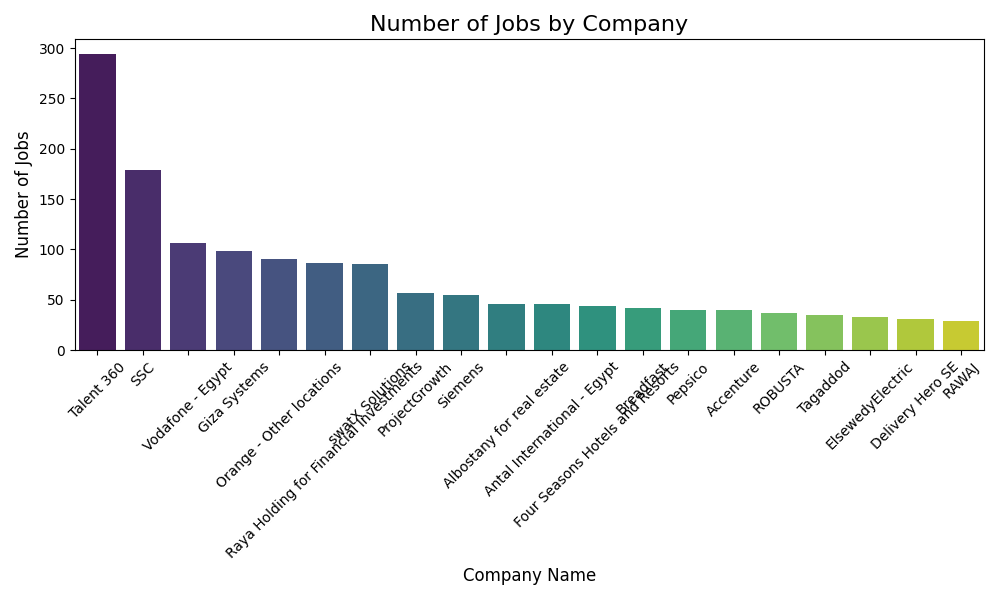
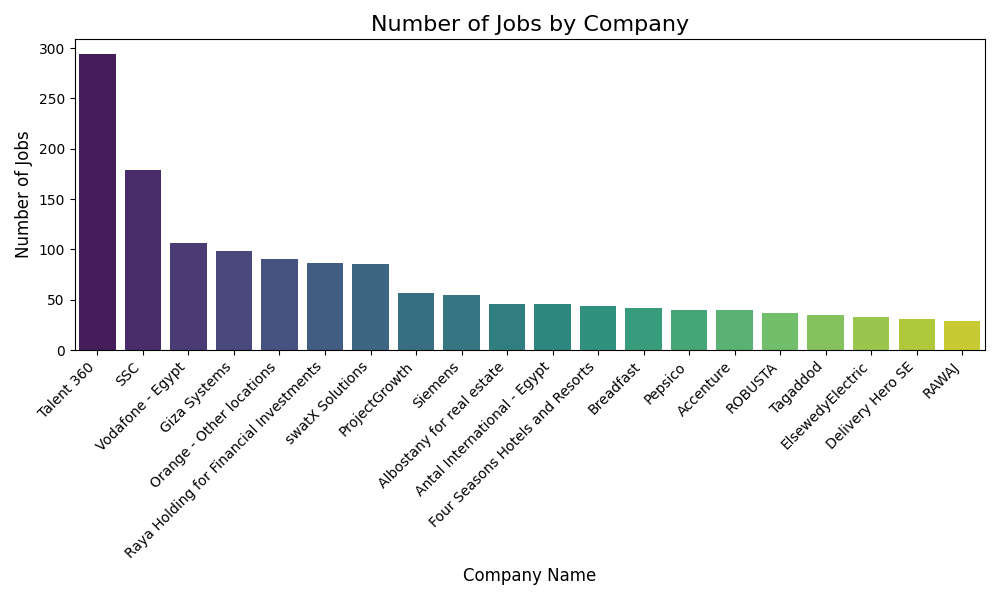
update methods

diff --git a/scripts/analysis.py b/scripts/analysis.py
@@ -9,7 +9,7 @@ from typing import Literal
 
 
 
-def job_distribution_by_city(df, plot_name, folder: Literal['egypt', 'saudi', 'compare'], top_n=10):
+def job_distribution_by_city(df, plot_name, folder: Literal['egypt', 'saudi', 'compare'], save = True, top_n=10):
     """
     Plot and save a bar chart showing the distribution of jobs by city.
 
@@ -25,8 +25,12 @@ def job_distribution_by_city(df, plot_name, folder: Literal['egypt', 'saudi', 'c
     plot_name : str
         Name of the output image file (without extension).
 
+
     folder : Literal['egypt', 'saudi', 'compare']
         Folder name where the plot will be saved.
+
+    save : bool
+        Whether to save the output image file (default True).
 
     top_n : int, optional, default=10
         Number of top cities to include in the plot.
@@ -60,14 +64,15 @@ def job_distribution_by_city(df, plot_name, folder: Literal['egypt', 'saudi', 'c
     plt.tight_layout()
     plt.show()
 
-    path = '../visualizations/' + folder + '/' + plot_name + '.png'
-    fig.savefig(path)
+    if save:
+        path = '../visualizations/' + folder + '/' + plot_name + '.png'
+        fig.savefig(path)
 
     return fig
 
 
 
-def analyze_jobs_by_company(data, plot_name, folder: Literal['egypt', 'saudi', 'compare'], top_n=20):
+def analyze_jobs_by_company(data, plot_name, folder: Literal['egypt', 'saudi', 'compare'], save = True, top_n=20):
     """
     Analyze and visualize the number of job postings per company.
 
@@ -84,6 +89,9 @@ def analyze_jobs_by_company(data, plot_name, folder: Literal['egypt', 'saudi', '
 
     folder : Literal['egypt', 'saudi', 'compare']
         Folder name where the plot will be saved.
+
+    save : bool
+        Whether to save the output image file (default True).
 
     top_n : int, optional, default=20
         Number of top companies to include in the plot.
@@ -118,19 +126,20 @@ def analyze_jobs_by_company(data, plot_name, folder: Literal['egypt', 'saudi', '
     ax.set_title('Number of Jobs by Company', fontsize=16)
     ax.set_xlabel('Company Name', fontsize=12)
     ax.set_ylabel('Number of Jobs', fontsize=12)
-    plt.xticks(rotation=45)
+    plt.xticks(rotation=45, ha='right')
     plt.tight_layout()
     # Show the plot
     plt.show()
 
-    path = '../visualizations/' + folder + '/' + plot_name + '.png'
-    fig.savefig(path)
+    if save:
+        path = '../visualizations/' + folder + '/' + plot_name + '.png'
+        fig.savefig(path)
 
     return fig
 
 
 
-def get_top_job_titles_with_plot(data, plot_name, folder: Literal['egypt', 'saudi', 'compare'], top_n=10):
+def get_top_job_titles_with_plot(data, plot_name, folder: Literal['egypt', 'saudi', 'compare'], save = True, top_n=10):
     """
     Generate and visualize the top most frequent job titles from the dataset.
 
@@ -147,6 +156,9 @@ def get_top_job_titles_with_plot(data, plot_name, folder: Literal['egypt', 'saud
 
     folder : Literal['egypt', 'saudi', 'compare']
         Folder name where the plot will be saved.
+
+    save : bool
+        Whether to save the output image file (default True).
 
     top_n : int, optional, default=10
         Number of top job titles to include in the analysis and plot.
@@ -182,14 +194,15 @@ def get_top_job_titles_with_plot(data, plot_name, folder: Literal['egypt', 'saud
     plt.tight_layout()
     plt.show()
 
-    path = '../visualizations/' + folder + '/' + plot_name + '.png'
-    fig.savefig(path)
+    if save:
+        path = '../visualizations/' + folder + '/' + plot_name + '.png'
+        fig.savefig(path)
 
     return fig
 
 
 
-def analyze_jobs_by_work_type(data, plot_name, folder: Literal['egypt', 'saudi', 'compare']):
+def analyze_jobs_by_work_type(data, plot_name, folder: Literal['egypt', 'saudi', 'compare'], save = True):
     """
     Analyze and visualize the distribution of jobs by work type (e.g., Remote, On-site).
 
@@ -207,6 +220,9 @@ def analyze_jobs_by_work_type(data, plot_name, folder: Literal['egypt', 'saudi',
 
     folder : Literal['egypt', 'saudi', 'compare']
         Folder name where the plot will be saved.
+
+    save : bool
+        Whether to save the output image file (default True).
 
     Returns:
     --------
@@ -246,15 +262,16 @@ def analyze_jobs_by_work_type(data, plot_name, folder: Literal['egypt', 'saudi',
     plt.tight_layout()
     plt.show()
 
-    path = '../visualizations/' + folder + '/' + plot_name + '.png'
-    fig.savefig(path)
+    if save:
+        path = '../visualizations/' + folder + '/' + plot_name + '.png'
+        fig.savefig(path)
 
     return fig
 
 
 
 
-def analyze_jobs_by_time(data, plot_name, folder: Literal['egypt', 'saudi', 'compare']):
+def analyze_jobs_by_time(data, plot_name, folder: Literal['egypt', 'saudi', 'compare'], save = True):
     """
     Analyze and visualize the distribution of job postings over time (by month).
 
@@ -272,6 +289,9 @@ def analyze_jobs_by_time(data, plot_name, folder: Literal['egypt', 'saudi', 'com
 
     folder : Literal['egypt', 'saudi', 'compare']
         Folder name where the plot will be saved.
+
+    save : bool
+        Whether to save the output image file (default True).
 
     Returns:
     --------
@@ -326,14 +346,15 @@ def analyze_jobs_by_time(data, plot_name, folder: Literal['egypt', 'saudi', 'com
     plt.tight_layout()
     plt.show()
 
-    path = '../visualizations/' + folder + '/' + plot_name + '.png'
-    fig.savefig(path)
+    if save:
+        path = '../visualizations/' + folder + '/' + plot_name + '.png'
+        fig.savefig(path)
 
     return fig
 
 
 
-def analyze_jobs_by_gender(data, plot_name, folder: Literal['egypt', 'saudi', 'compare']):
+def analyze_jobs_by_gender(data, plot_name, folder: Literal['egypt', 'saudi', 'compare'], save = True):
     """
     Analyze and visualize the distribution of job postings by gender preference.
 
@@ -351,6 +372,9 @@ def analyze_jobs_by_gender(data, plot_name, folder: Literal['egypt', 'saudi', 'c
 
     folder : Literal['egypt', 'saudi', 'compare']
         Folder name where the plot will be saved.
+
+    save : bool
+        Whether to save the output image file (default True).
 
     Returns:
     --------
@@ -389,14 +413,15 @@ def analyze_jobs_by_gender(data, plot_name, folder: Literal['egypt', 'saudi', 'c
     plt.tight_layout()
     plt.show()
 
-    path = '../visualizations/' + folder + '/' + plot_name + '.png'
-    fig.savefig(path)
+    if save:
+        path = '../visualizations/' + folder + '/' + plot_name + '.png'
+        fig.savefig(path)
 
     return fig
 
 
 
-def analyze_jobs_by_job_level(data, plot_name, folder: Literal['egypt', 'saudi', 'compare']):
+def analyze_jobs_by_job_level(data, plot_name, folder: Literal['egypt', 'saudi', 'compare'], save = True):
     """
     Analyze and visualize the distribution of job postings by job level.
 
@@ -414,6 +439,9 @@ def analyze_jobs_by_job_level(data, plot_name, folder: Literal['egypt', 'saudi',
 
     folder : Literal['egypt', 'saudi', 'compare']
         Folder name where the plot will be saved.
+
+    save : bool
+        Whether to save the output image file (default True).
 
     Returns:
     --------
@@ -453,13 +481,14 @@ def analyze_jobs_by_job_level(data, plot_name, folder: Literal['egypt', 'saudi',
     plt.tight_layout()
     plt.show()
 
-    path = '../visualizations/' + folder + '/' + plot_name + '.png'
-    fig.savefig(path)
+    if save:
+        path = '../visualizations/' + folder + '/' + plot_name + '.png'
+        fig.savefig(path)
 
     return fig
 
 
-def plot_job_trend_over_time(data, plot_name, folder: Literal['egypt', 'saudi', 'compare'], freq='M'):
+def plot_job_trend_over_time(data, plot_name, folder: Literal['egypt', 'saudi', 'compare'], save = True, freq='M'):
     """
     Plot the trend of job postings over time with a specified frequency (e.g., monthly or daily).
 
@@ -477,6 +506,9 @@ def plot_job_trend_over_time(data, plot_name, folder: Literal['egypt', 'saudi', 
 
     folder : Literal['egypt', 'saudi', 'compare']
         Folder name where the plot will be saved.
+
+    save : bool
+        Whether to save the output image file (default True).
 
     freq : str, optional, default='M'
         Resampling frequency for time series analysis. Common values include:
@@ -528,14 +560,15 @@ def plot_job_trend_over_time(data, plot_name, folder: Literal['egypt', 'saudi', 
     plt.tight_layout()
     plt.show()
 
-    path = '../visualizations/' + folder + '/' + plot_name + '.png'
-    fig.savefig(path)
+    if save:
+        path = '../visualizations/' + folder + '/' + plot_name + '.png'
+        fig.savefig(path)
 
     return fig
 
 
 
-def plot_monthly_job_boxplot(data, plot_name, folder: Literal['egypt', 'saudi', 'compare']):
+def plot_monthly_job_boxplot(data, plot_name, folder: Literal['egypt', 'saudi', 'compare'], save = True):
     """
     Generate a boxplot showing the daily distribution of job entries by month.
 
@@ -553,6 +586,9 @@ def plot_monthly_job_boxplot(data, plot_name, folder: Literal['egypt', 'saudi', 
 
     folder : Literal['egypt', 'saudi', 'compare']
         Folder name where the plot will be saved.
+
+    save : bool
+        Whether to save the output image file (default True).
 
     Returns:
     --------
@@ -597,13 +633,14 @@ def plot_monthly_job_boxplot(data, plot_name, folder: Literal['egypt', 'saudi', 
     plt.tight_layout()
     plt.show()
 
-    path = '../visualizations/' + folder + '/' + plot_name + '.png'
-    fig.savefig(path)
+    if save:
+        path = '../visualizations/' + folder + '/' + plot_name + '.png'
+        fig.savefig(path)
 
     return fig
 
 
-def plot_job_postings_by_industry(df, plot_name, folder: Literal['egypt', 'saudi', 'compare']):
+def plot_job_postings_by_industry(df, plot_name, folder: Literal['egypt', 'saudi', 'compare'], save = True):
     """
     Plot the top 10 industries by number of job postings with support for Arabic text display.
 
@@ -621,6 +658,9 @@ def plot_job_postings_by_industry(df, plot_name, folder: Literal['egypt', 'saudi
 
     folder : Literal['egypt', 'saudi', 'compare']
         Folder name where the plot will be saved.
+
+    save : bool
+        Whether to save the output image file (default True).
 
     Returns:
     --------
@@ -668,14 +708,16 @@ def plot_job_postings_by_industry(df, plot_name, folder: Literal['egypt', 'saudi
     ax.set_title(get_display(arabic_reshaper.reshape('The highest 10 areas declared for business opportunities')), fontsize=16)
     ax.set_xlabel(get_display(arabic_reshaper.reshape('Domain')), fontsize=14)
     ax.set_ylabel(get_display(arabic_reshaper.reshape('Number of jobs')), fontsize=14)
-    ax.tick_params(axis='x', labelsize=12, rotation=45)
+    ax.tick_params(axis='x', labelsize=12)
+    plt.xticks(rotation=45, ha='right')
     ax.grid(True, linestyle='--', alpha=0.7, axis='y')
 
     plt.tight_layout()
     plt.show()
 
 
-    path = '../visualizations/' + folder + '/' + plot_name + '.png'
-    fig.savefig(path)
+    if save:
+        path = '../visualizations/' + folder + '/' + plot_name + '.png'
+        fig.savefig(path)
 
     return fig
